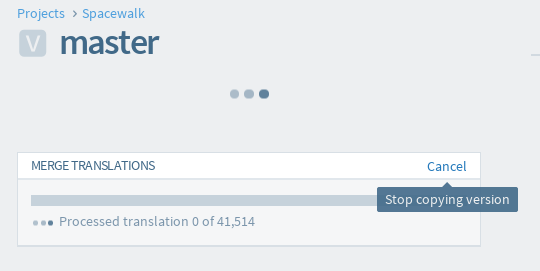
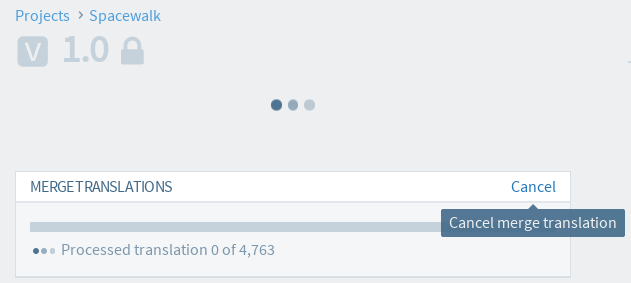
Update docs printscreen and messages

diff --git a/docs/user-guide/merge-translations.md b/docs/user-guide/merge-translations.md
@@ -1,12 +1,14 @@
 # Merge translations from another project version
 
+Merge translations allows project maintainers to copy translations across different project version based on matching context. (See below for context matching rules)
+
 ## Restrictions
 
-- This features only available to project maintainers.
+- This feature is only available to project maintainers.
 - Only translations that are in translated/approved state will be used.
-- Merge translation can only be run if there's no other copy translations in progress for selected version. e.g. copy-trans/copy version.
+- Merge translation can only be run if there are no other copy operations in progress for the selected version, such as copy-trans or copy version.
 
-** Rule of which translations will be copied over **
+## Rule of which translations will be copied over
 <table class='docutils'>
     <tr>
         <td>**From**</td><td>**To**</td><td>**Copy?**</td>
@@ -15,40 +17,40 @@
         <td>fuzzy/untranslated</td><td>any</td><td>No</td>
     </tr>
     <tr>
-        <td>different source text/document id/locale</td><td>any</td><td>No</td>
+        <td>different source text/document id/<br />resId/msgctxt/locale</td><td>any</td><td>No</td>
     </tr>
     <tr>
         <td>translated/approved</td><td>untranslated/fuzzy</td><td>Yes</td>
     </tr>
      <tr>
-        <td>translated/approved</td><td>translated/approved</td><td>copy if `From` is newer and `Keep existing translated/approved strings` is unchecked</td>
+        <td>translated/approved</td><td>translated/approved</td><td>copy if `From` is newer and <br />`Keep existing translated/approved translations` is unchecked</td>
     </tr>
 </table>
      
-## Runs Merge translation
+## Run Merge translations
 
-1. Login into Zanata.
-1. Select a project version of which you wish to copy translations to.
-1. Expend `More Action` menu on top right corner and click on `Merge Translations`. You need to be project maintainers for this action.
+1. Login to Zanata.
+1. Select a project version you wish to copy translations to.
+1. Expand `More Action` menu on top right corner and click on `Merge Translations`. This action is only available if you are a maintainer of the project.
 <figure>
     <img alt="More action menu in project version page" src="images/version-more-action-menu.png" />
 </figure>
-1. In displayed windows, select which project/version of translations that you wish to copy from.
+1. In displayed dialog, select the project-version you wish to copy translations from.
 <figure>
-    <img alt="Merge translation windows" src="images/version-merge-trans-windows.png" />
+    <img alt="Merge translation dialog" src="images/version-merge-trans-dialog.png" />
 </figure>
-1. Check on `Keep existing translated/approved strings` if you don't want to replace existing translated/approved translations with newer translations from this source.
-1. Click `Merge Translations` button to start process.
-1. Progress bar will display in the version page during merge process.
+1. If you do not want to overwrite translated/approved translations, ensure that `Keep existing translated/approved translations` is checked. If this option is not checked, translated/approved translations will be replaced with newer translated/approved translations if they are available.
+1. Click `Merge Translations` button to start the process.
+1. The progress of the merge process is shown by a progress bar on the version page.
 <figure>
     <img alt="Merge translation in progress" src="images/version-merge-trans-progress.png" />
 </figure>
 
 ## Cancel Merge translation
-**_Note: This will leave this project version in an incomplete state where only partial translations been copied over.**
+**_Note: This will only stop additional translations being merged. Any translations that have already been merged will remain merged._**
 
-1. Go to progress bar section in project version page.
-1. Click on `Cancel` button on top right panel.
+1. Go to the progress bar section in project version page.
+1. Click on the `Cancel` button on top right panel.
 <figure>
     <img alt="Cancel merge translation in progress" src="images/version-merge-trans-cancel.png" />
 </figure>
